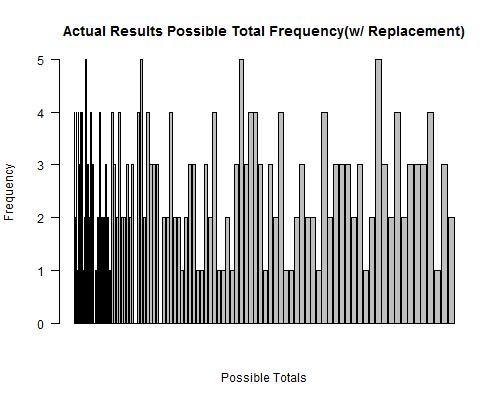
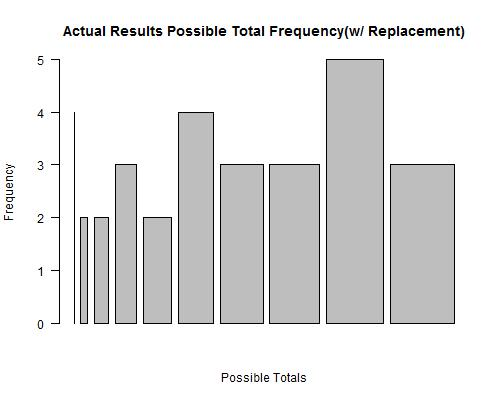
Fixed for Probability Graphs

Changed region(s): [[0.15, 0.15, 0.93, 0.81]]

diff --git a/src/Controller/RConnector.java b/src/Controller/RConnector.java
@@ -239,12 +239,13 @@ import java.io.FileNotFoundException;
            }
            d = total/(Card.drawCards*13);
            if(Card.experiment == 0)
-               d = total/(Card.drawCards);
+               d = (double)total/(Card.drawCards);
            if(i==0)
                temp = temp.concat(d+"");
            else
                temp = temp.concat(","+d);
        }
+         System.out.println(temp);
         c.voidEval("y = seq(0,"+(Card.nTrials-1)+",1)");
         c.voidEval("jpeg('NetBeansProjects/MODESTAMC02/plots/actualprobability1.jpg',width=500,height=400)");
         c.voidEval("barplot(c("+temp+"),y,main='Actual Probability Distribution of Possible Totals(w/ Replacement)',xlab='Possible Totals',ylab='Probability',las=1)");
@@ -257,12 +258,13 @@ import java.io.FileNotFoundException;
            }
            d = total/(Card.drawCards*13);
            if(Card.experiment == 0)
-               d = total/(Card.drawCards);
+               d = (double)total/(Card.drawCards);
            if(i==0)
                temp = temp.concat(d+"");
            else
                temp = temp.concat(","+d);
        }
+        System.out.println(temp);
         c.voidEval("y = seq(0,"+(Card.nTrials-1)+",1)");
         c.voidEval("jpeg('NetBeansProjects/MODESTAMC02/plots/actualprobability2.jpg',width=500,height=400)");
         c.voidEval("barplot(c("+temp+"),y,main='Actual Probability Distribution of Possible Totals(w/o Replacement)',xlab='Possible Totals',ylab='Probability',las=1)");
@@ -271,7 +273,7 @@ import java.io.FileNotFoundException;
         for(int i=0; i<result1.length; i++){
            d = Card.desiredTotal/(Card.drawCards*13);
            if(Card.experiment == 0)
-               d = total/(Card.drawCards);
+               d = (double)total/(Card.drawCards);
            if(i==0)
                temp = temp.concat(d+"");
            else
@@ -285,7 +287,7 @@ import java.io.FileNotFoundException;
         for(int i=0; i<result2.length; i++){
            d = Card.desiredTotal/(Card.drawCards*13);
            if(Card.experiment == 0)
-               d = total/(Card.drawCards);
+               d = (double)total/(Card.drawCards);
            if(i==0)
                temp = temp.concat(d+"");
            else
